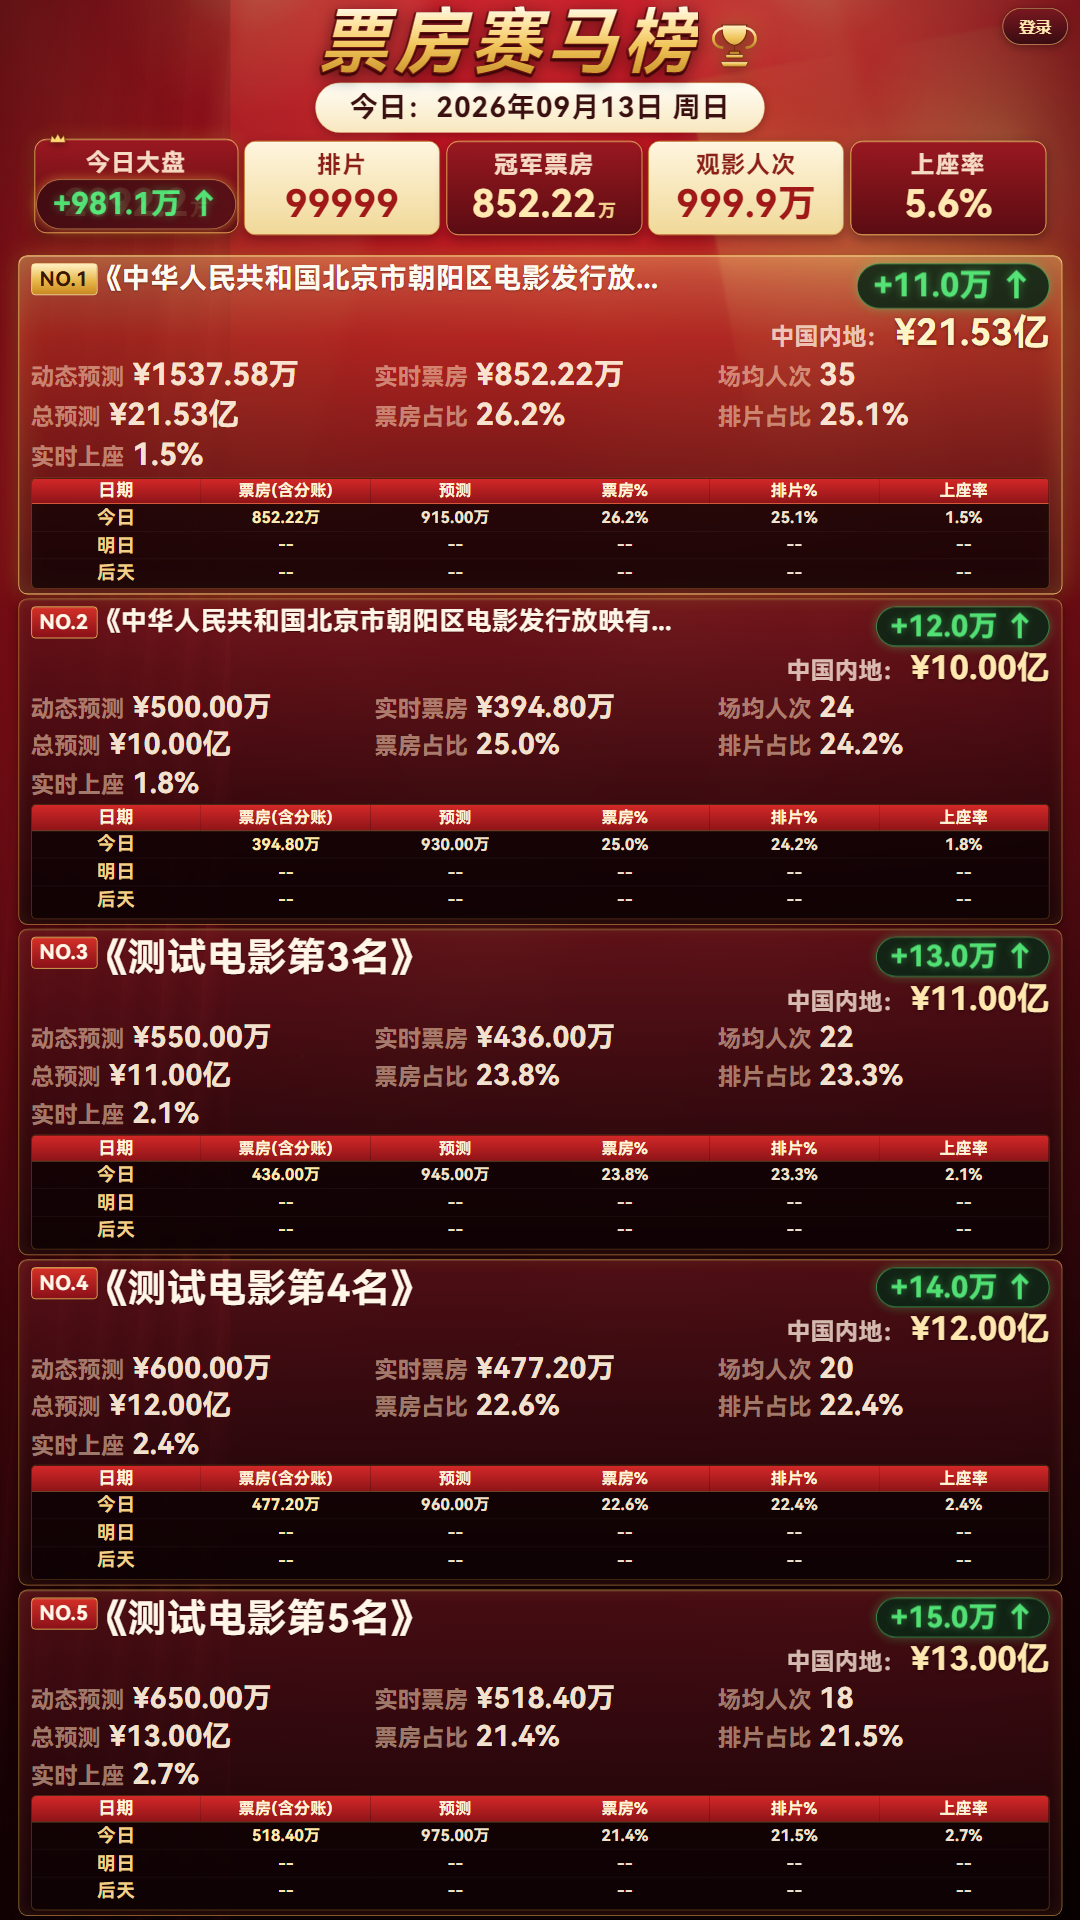
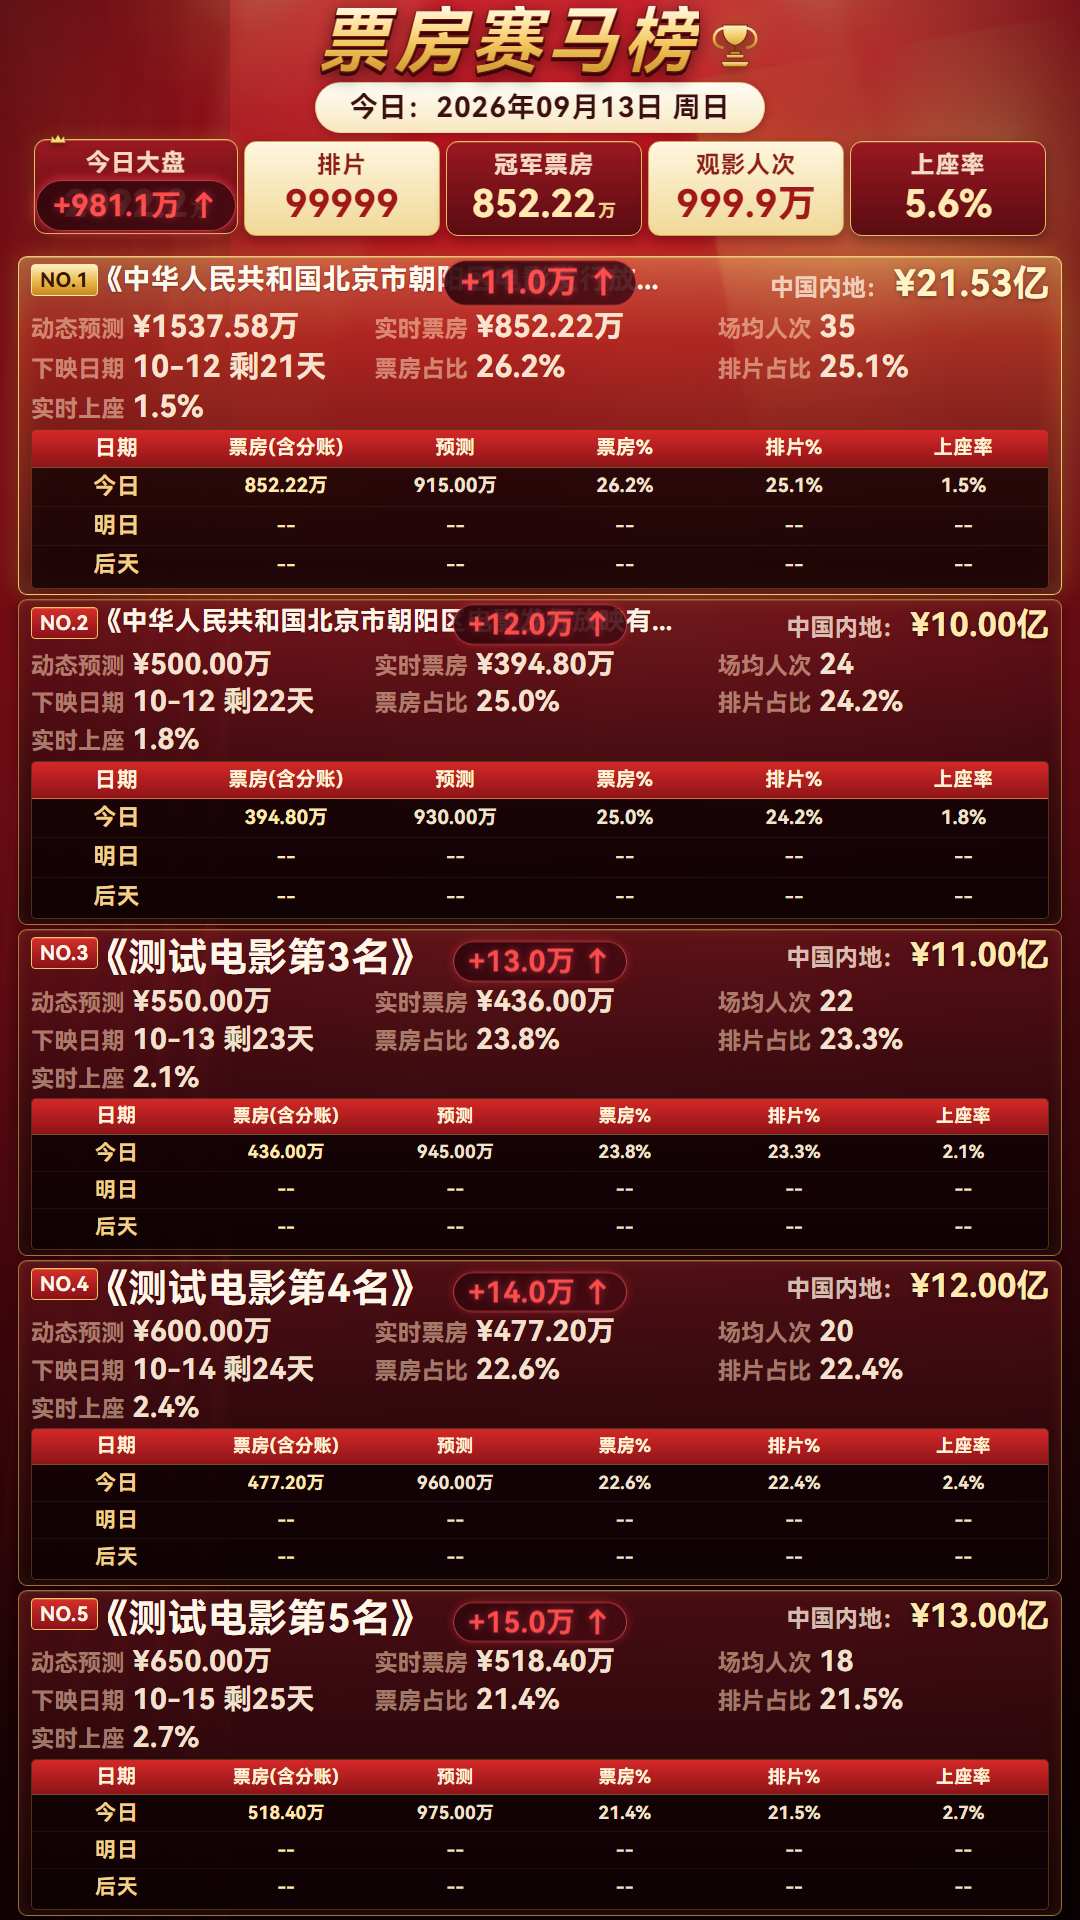
chore: release v1.51

diff --git a/ui/maoyan-api.js b/ui/maoyan-api.js
@@ -1109,22 +1109,38 @@ function parseTechMetrics(raw) {
   let endDateStr = "--";
   let remainingDays = "--";
 
-  if (endDate) {
-    if (typeof endDate === "number" && String(endDate).length === 8) {
-      const s = String(endDate);
-      endDateStr = `${s.slice(0, 4)}-${s.slice(4, 6)}-${s.slice(6, 8)}`;
+  if (endDate != null && String(endDate).trim() !== "") {
+    const dateRaw = String(endDate).trim();
+    if (/^\d{8}$/.test(dateRaw)) {
+      endDateStr = `${dateRaw.slice(0, 4)}-${dateRaw.slice(4, 6)}-${dateRaw.slice(6, 8)}`;
+    } else if (/^\d{4}-\d{2}-\d{2}/.test(dateRaw)) {
+      endDateStr = dateRaw.slice(0, 10);
     } else {
-      endDateStr = String(endDate).slice(0, 10);
+      endDateStr = dateRaw.slice(0, 16);
     }
-    const end = new Date(endDateStr);
-    const now = new Date();
-    if (!Number.isNaN(end.getTime())) {
-      const diff = Math.ceil((end - now) / 86400000);
-      remainingDays = diff >= 0 ? String(diff) : "0";
+    const m = /^(\d{4})-(\d{2})-(\d{2})$/.exec(endDateStr);
+    if (m) {
+      const end = new Date(Number(m[1]), Number(m[2]) - 1, Number(m[3]));
+      const now = new Date();
+      const today = new Date(now.getFullYear(), now.getMonth(), now.getDate());
+      if (!Number.isNaN(end.getTime())) {
+        const diff = Math.round((end - today) / 86400000);
+        remainingDays = String(Math.max(0, diff));
+      }
     }
-  } else if (inner.remainingDays != null) {
-    remainingDays = String(inner.remainingDays);
-    endDateStr = inner.endDateDesc || "--";
+  } else if (inner.remainingDays != null && String(inner.remainingDays).trim() !== "") {
+    remainingDays = String(inner.remainingDays).trim();
+    const desc = inner.endDateDesc;
+    if (desc != null && String(desc).trim() && String(desc).trim() !== "--") {
+      endDateStr = String(desc).trim();
+    }
+  }
+
+  if (
+    inner.remainingDays != null &&
+    String(inner.remainingDays).trim() !== ""
+  ) {
+    remainingDays = String(inner.remainingDays).trim();
   }
 
   return { endDate: endDateStr, remainingDays };
@@ -1477,6 +1493,16 @@ export const EXTRA_METRIC_FIELD_MAP = [
   { label: "海外票房", key: "overseasBox", source: "getBoxShowna", raw: "overseasBoxDesc" },
 ];
 
+function formatEndDateForExtra(m) {
+  const hasDate = !isEmptyMetricValue(m?.endDate);
+  const hasDays = !isEmptyMetricValue(m?.remainingDays);
+  if (!hasDate && !hasDays) return "";
+  const dateText = hasDate ? String(m.endDate).replace(/^\d{4}-/, "").trim() : "";
+  const days = hasDays ? `剩${String(m.remainingDays).trim()}天` : "";
+  if (dateText && days) return `${dateText} ${days}`;
+  return dateText || days;
+}
+
 const EXTRA_METRIC_CANDIDATES = [
   { key: "dynamicForecast", label: "动态预测", tier: 1, get: (m) => m.dynamicForecast },
   { key: "showCountDesc", label: "排片场次", tier: 1, get: (m) => formatShowCountDesc(m) },
@@ -1486,12 +1512,21 @@ const EXTRA_METRIC_CANDIDATES = [
   { key: "yesterdaySamePeriodText", label: "昨日同期", tier: 1, get: (m) => m.yesterdaySamePeriodText },
   { key: "totalViews", label: "累计观影人次", tier: 1, get: (m) => m.totalViews },
   { key: "totalForecast", label: "总预测", tier: 2, get: (m) => m.totalForecast },
-  { key: "endDate", label: "下映日期", tier: 2, get: (m) => (isEmptyMetricValue(m.endDate) ? "" : m.endDate) },
+  {
+    key: "endDate",
+    label: "下映日期",
+    tier: 2,
+    get: (m) => formatEndDateForExtra(m),
+  },
   {
     key: "remainingDays",
     label: "剩余天数",
     tier: 2,
-    get: (m) => (isEmptyMetricValue(m.remainingDays) ? "" : `${m.remainingDays}天`),
+    // 下映日期已带「剩N天」时不再单独占一格
+    get: (m) =>
+      !isEmptyMetricValue(m.endDate) || isEmptyMetricValue(m.remainingDays)
+        ? ""
+        : `剩${m.remainingDays}天`,
   },
   { key: "sumSplitBoxDesc", label: "分账票房", tier: 2, get: (m) => m.sumSplitBoxDesc },
   { key: "splitBoxRate", label: "分账占比", tier: 2, get: (m) => m.splitBoxRate },
@@ -1925,7 +1960,7 @@ export async function enrichMoviesLight(apiBase, movies, options = {}) {
   return enriched;
 }
 
-export { parsePredictionMetrics, parseBoxShowMetrics };
+export { parsePredictionMetrics, parseBoxShowMetrics, parseTechMetrics };
 
 export async function enrichMovies(apiBase, movies, options = {}) {
   const concurrency = options.concurrency || 2;

diff --git a/deploy/test-end-date.js b/deploy/test-end-date.js
@@ -1,0 +1,70 @@
+/**
+ * 下映日期解析与展示回归
+ * node deploy/test-end-date.js
+ */
+const assert = require("assert");
+const path = require("path");
+const { pathToFileURL } = require("url");
+
+async function main() {
+  const api = await import(pathToFileURL(path.join(__dirname, "..", "ui", "maoyan-api.js")).href);
+  const { parseTechMetrics, mergeMovieDetail, getExtraMetrics } = api;
+
+  const ymd = parseTechMetrics({ success: true, data: { endDate: 20261012 } });
+  assert.strictEqual(ymd.endDate, "2026-10-12", "数字 YYYYMMDD 应格式化");
+  assert.ok(ymd.remainingDays !== "--", "应由日期推算剩余天数");
+
+  const ymdStr = parseTechMetrics({ data: { endDate: "20261110", remainingDays: 58 } });
+  assert.strictEqual(ymdStr.endDate, "2026-11-10");
+  assert.strictEqual(ymdStr.remainingDays, "58", "API remainingDays 优先");
+
+  const iso = parseTechMetrics({ data: { endDate: "2026-12-01T00:00:00" } });
+  assert.strictEqual(iso.endDate, "2026-12-01");
+
+  const daysOnly = parseTechMetrics({ data: { remainingDays: 7, endDateDesc: "12-20" } });
+  assert.strictEqual(daysOnly.endDate, "12-20");
+  assert.strictEqual(daysOnly.remainingDays, "7");
+
+  const merged = mergeMovieDetail(
+    { movieId: 1, endDate: "2026-09-01", remainingDays: "1" },
+    { tech: parseTechMetrics({ data: { endDate: "2026-11-10", remainingDays: "58" } }) },
+  );
+  assert.strictEqual(merged.endDate, "2026-11-10");
+  assert.strictEqual(merged.remainingDays, "58");
+
+  const preserved = mergeMovieDetail(
+    { movieId: 1, endDate: "2026-09-01", remainingDays: "1" },
+    { tech: {} },
+  );
+  assert.strictEqual(preserved.endDate, "2026-09-01", "tech 空时保留旧下映日期");
+  assert.strictEqual(preserved.remainingDays, "1");
+
+  const extras = getExtraMetrics(
+    {
+      rank: 2,
+      dynamicForecast: "--",
+      showCountDesc: "--",
+      sumBoxDesc: "--",
+      yesterdayTotal: "--",
+      avgShowView: "--",
+      yesterdaySamePeriodText: "--",
+      totalViews: "--",
+      totalForecast: "--",
+      endDate: "2026-11-10",
+      remainingDays: "58",
+    },
+    { maxCount: 4 },
+  );
+  const endItem = extras.find((x) => x.key === "endDate");
+  assert.ok(endItem, "补充指标应含下映日期");
+  assert.ok(!extras.some((x) => x.key === "remainingDays"), "有下映日期时不重复占剩余天数");
+  assert.ok(String(endItem.value).includes("剩58天"), `展示应含剩余天数: ${endItem.value}`);
+  assert.ok(String(endItem.value).includes("11-10"), `展示应含月日: ${endItem.value}`);
+
+  console.log("test-end-date: ok");
+}
+
+main().catch((err) => {
+  console.error(err);
+  process.exit(1);
+});

diff --git a/ui/app.js b/ui/app.js
@@ -146,6 +146,16 @@ function mainlandLabel() {
   return "中国内地";
 }
 
+function formatEndDateMetric(m) {
+  const hasDate = !isEmptyField(m?.endDate);
+  const hasDays = !isEmptyField(m?.remainingDays);
+  if (!hasDate && !hasDays) return "";
+  const dateText = hasDate ? String(m.endDate).replace(/^\d{4}-/, "").trim() : "";
+  const days = hasDays ? `剩${String(m.remainingDays).trim()}天` : "";
+  if (dateText && days) return `${dateText} ${days}`;
+  return dateText || days;
+}
+
 function formatMoneyMetric(val) {
   if (isEmptyField(val)) return "";
   const text = String(val).trim();
@@ -202,11 +212,9 @@ const SUMMARY_COLUMN_DEFS = [
       ],
     },
     {
-      key: "totalForecast",
-      label: "总预测",
-      get: (m) => formatMoneyMetric(m.totalForecast),
-      trend: (m) => m.totalTrend,
-      // 禁止回落到 sumBoxDesc：累计票房会冒充成「总预测」，和中国内地撞数
+      key: "endDate",
+      label: "下映日期",
+      get: (m) => formatEndDateMetric(m),
       fallbacks: [],
     },
     {
@@ -285,16 +293,7 @@ const EXTRA_SUMMARY_DEFS = [
   { key: "splitBoxRate", label: "分账占比", get: (m) => m.splitBoxRate },
   { key: "hmtBox", label: "港澳台", get: (m) => formatMoneyMetric(m.hmtBox) },
   { key: "overseasBox", label: "海外", get: (m) => formatMoneyMetric(m.overseasBox) },
-  {
-    key: "endDate",
-    label: "下映日期",
-    get: (m) => {
-      if (isEmptyField(m.endDate) && isEmptyField(m.remainingDays)) return "";
-      const dateText = String(m.endDate || "--").replace(/^\d{4}-/, "");
-      const days = isEmptyField(m.remainingDays) ? "" : `剩${m.remainingDays}天`;
-      return days ? `${dateText}${days}` : dateText;
-    },
-  },
+  { key: "endDate", label: "下映日期", get: (m) => formatEndDateMetric(m) },
 ];
 
 const MAX_EXTRA_SUMMARY_METRICS = 0;

diff --git a/deploy/test-layout-top5.js b/deploy/test-layout-top5.js
@@ -61,7 +61,8 @@ function richMovie(rank, withExtras = true) {
   return {
     ...base,
     dynamicForecast: rank === 1 ? "1537.58万" : `${(400 + rank * 50).toFixed(2)}万`,
-    totalForecast: rank === 1 ? "21.53亿" : `${(8 + rank).toFixed(2)}亿`,
+    endDate: rank === 1 ? "2026-10-12" : `2026-10-${String(10 + rank).padStart(2, "0")}`,
+    remainingDays: String(20 + rank),
   };
 }
 
@@ -275,7 +276,7 @@ async function renderAndInspect(page, movies, nation) {
       }
 
       const metricLabels = [...metrics].map((el) => el.querySelector(".metric__label")?.textContent?.trim());
-      const coreLabels = ["动态预测", "总预测", "实时上座", "实时票房", "票房占比", "场均人次", "排片占比"];
+      const coreLabels = ["动态预测", "下映日期", "实时上座", "实时票房", "票房占比", "场均人次", "排片占比"];
       for (const label of coreLabels) {
         if (!metricLabels.includes(label)) {
           issues.push(`第 ${rank} 名缺少核心摘要字段: ${label}`);

diff --git a/deploy/test-race-overlap.js b/deploy/test-race-overlap.js
@@ -54,6 +54,8 @@ function richMovie(rank, extra = {}) {
     dynamicForecast: rank === 1 ? "1537.58万" : `${(400 + rank * 50).toFixed(2)}万`,
     hourSpeedText: rank === 1 ? "128.5万/h" : `${(20 + rank * 3).toFixed(1)}万/h`,
     totalForecast: rank === 1 ? "21.53亿" : `${(8 + rank).toFixed(2)}亿`,
+    endDate: rank === 1 ? "2026-10-12" : `2026-10-${String(10 + rank).padStart(2, "0")}`,
+    remainingDays: String(20 + rank),
     yesterdayTotal: "587.90万",
     yesterdaySamePeriodText: "102.45万",
     totalViews: "0.44亿",
